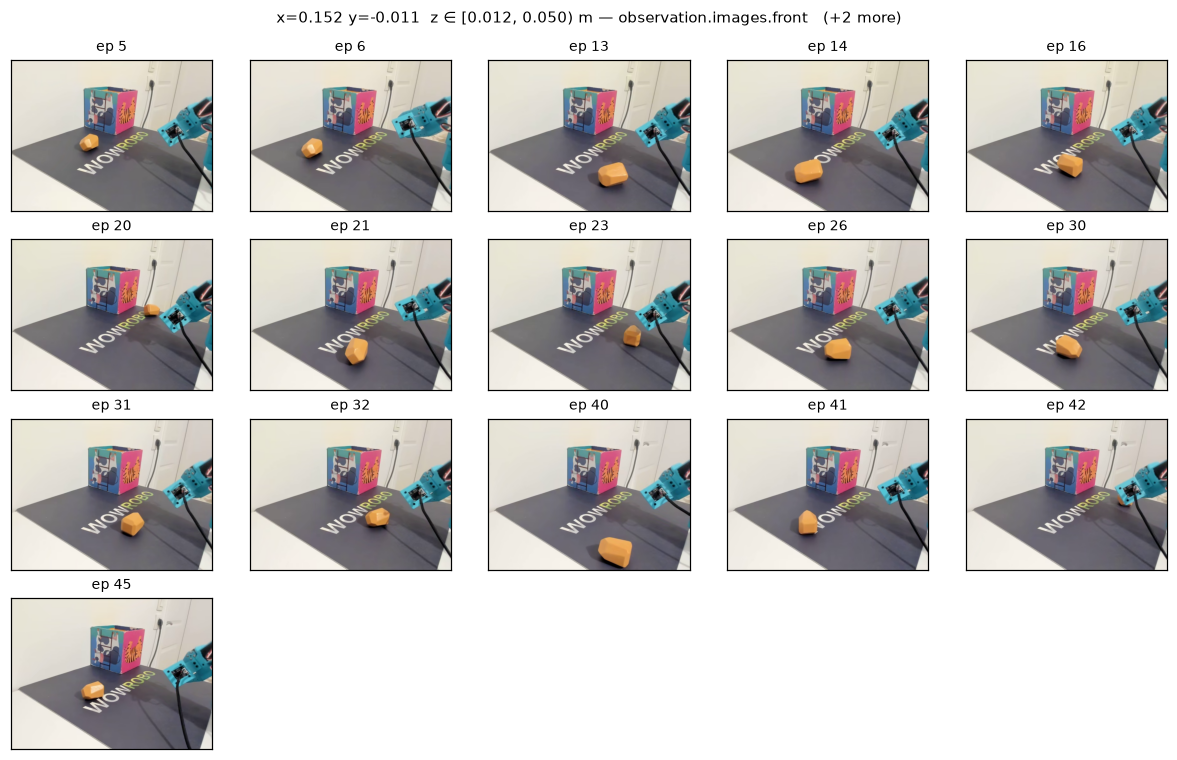
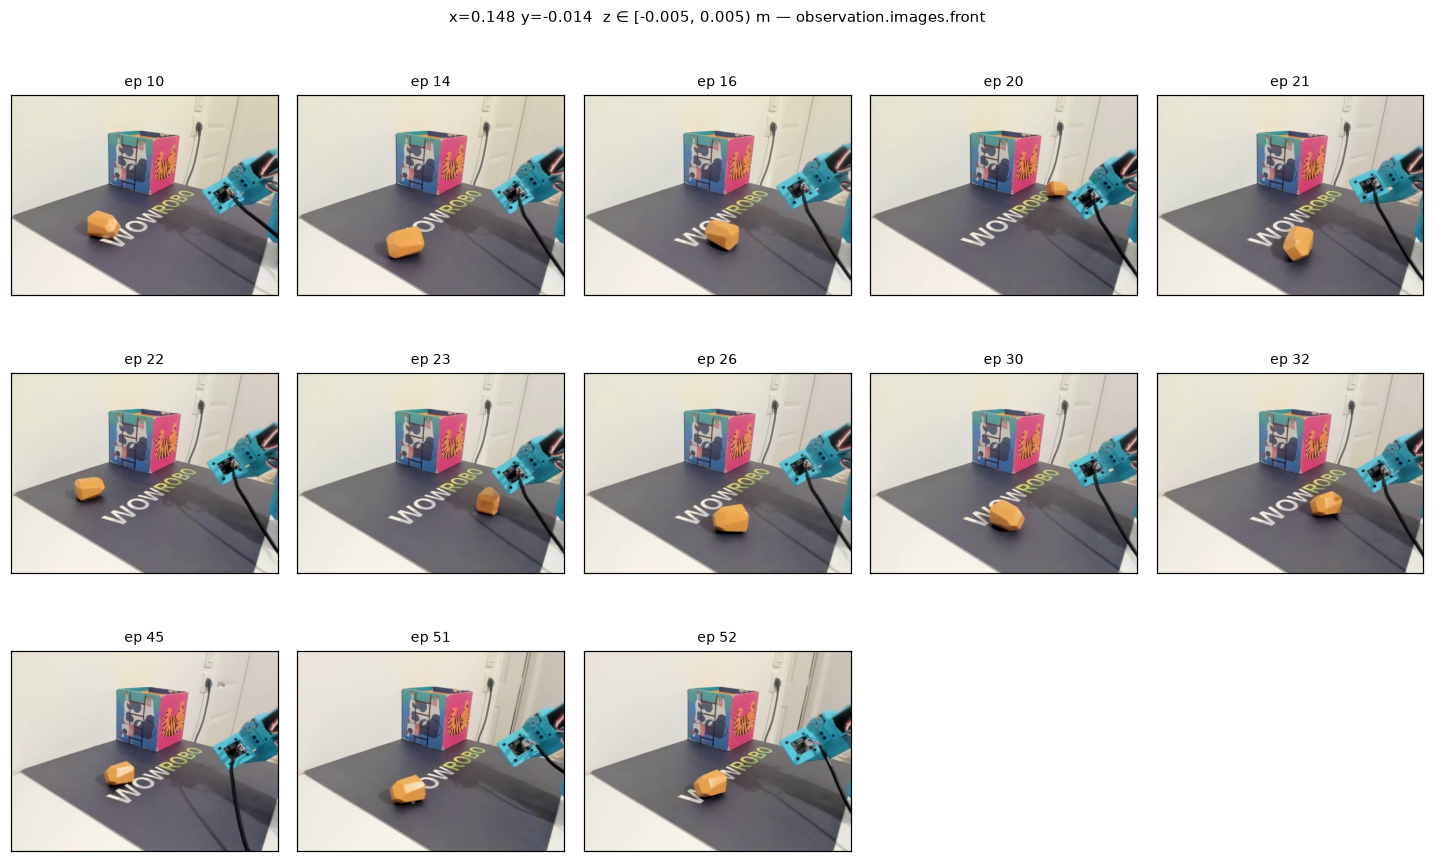
Change the viewer defaults and regenerate the figures
Open on a 10 mm slab at table height (z in [-0.005, 0.005)) at 13.5 mm
cells, colouring by distinct episodes on a log scale with the fixed-scale
lock off. Episodes is the more honest default than frame count: a cell the
arm merely dwelt in during one slow episode no longer looks busy.

--log gains --no-log rather than defaulting off.

Figures regenerated at the new defaults, and on a larger canvas -- at the
old size the suptitle collided with the dataset name and the dataset radio
labels overlapped the first panel's y axis.

Claude-Session: https://claude.ai/code/session_017pQ4pw85xt3LLj5RrtjCwh

diff --git a/02-ee-workspace-coverage/ee_coverage.py b/02-ee-workspace-coverage/ee_coverage.py
@@ -888,7 +888,7 @@ def build_arg_parser() -> argparse.ArgumentParser:
     parser.add_argument("--approach-axis", choices=("x", "y", "z"), default="z",
                         help="Which tool axis counts as the approach direction (default: z).")
 
-    parser.add_argument("--bins", type=int, default=64, help="Bins per axis in the top view (default: 64).")
+    parser.add_argument("--bins", type=int, default=32, help="Bins per axis in the top view (default: 32, ~13 mm cells).")
     parser.add_argument("--z-slices", type=int, default=6, help="Number of z slices (default: 6).")
     parser.add_argument("--z-min", type=float, default=None, help="Lowest slice edge (default: 1st percentile).")
     parser.add_argument("--z-max", type=float, default=None, help="Highest slice edge (default: 99th percentile).")
@@ -902,15 +902,17 @@ def build_arg_parser() -> argparse.ArgumentParser:
     parser.add_argument("--diff", default=None, help="'B:A' -- show coverage in B that is absent from A.")
     parser.add_argument("--no-include-base", dest="include_base", action="store_false",
                         help="Crop to the reached workspace instead of always showing the robot base.")
-    parser.add_argument("--z-bounds", default=None,
-                        help="Initial slab for the viewer, e.g. '0.05,0.09' (default: the first slice).")
+    parser.add_argument("--z-bounds", default="-0.005,0.005",
+                        help="Initial slab for the viewer, e.g. '0.05,0.09' "
+                             "(default: -0.005,0.005 -- a 10 mm band about table height).")
     parser.add_argument("--rest-pose", choices=("home", "zero", "none"), default="home",
                         help="Arm pose drawn for reference: the median episode-start pose, the URDF "
                              "zero config, or nothing (default: home).")
 
-    parser.add_argument("--panel-color", choices=CHANNELS, default="count",
-                        help="What the colour map means (default: count).")
-    parser.add_argument("--log", action="store_true", help="Log colour scale (count/dwell/episodes).")
+    parser.add_argument("--panel-color", choices=CHANNELS, default="episodes",
+                        help="What the colour map means (default: episodes).")
+    parser.add_argument("--log", action=argparse.BooleanOptionalAction, default=True,
+                        help="Log colour scale for count/dwell/episodes (default: on).")
     parser.add_argument("--cmap", default="viridis", help="Matplotlib colormap name.")
     parser.add_argument("--quiver", action="store_true",
                         help="Overlay mean approach direction as arrows on the top view.")

diff --git a/02-ee-workspace-coverage/coverage_viewer.py b/02-ee-workspace-coverage/coverage_viewer.py
@@ -120,7 +120,7 @@ class CoverageViewer:
         self.channel = channel
         self.log = log
         self.show_mask = model.reach_volume is not None
-        self.fixed_scale = True
+        self.fixed_scale = False
         self.cmap = make_cmap(cmap)
         self.blit = blit
         self.show_frames = show_frames

diff --git a/02-ee-workspace-coverage/README.md b/02-ee-workspace-coverage/README.md
@@ -22,21 +22,24 @@ binned in Cartesian space, with a slider to walk up through the workspace height
 
 ![the interactive viewer](assets/viewer.png)
 
-The main panel is a top-down x–y map of one horizontal slab of the workspace — here
-`z ∈ [0.012, 0.050)` m, a 38 mm slice just above the table. The robot is drawn at the
-origin with a pale arrow along the direction it faces, so it is always obvious which side
-of the arm the data is on.
+The main panel is a top-down x–y map of one horizontal slab of the workspace — by default
+`z ∈ [-0.005, 0.005)` m, a 10 mm band straddling table height, in 13.5 mm cells. The robot
+is drawn at the origin with a pale arrow along the direction it faces, so it is always
+obvious which side of the arm the data is on.
 
 Three states are distinguished, which is the point of the whole exercise:
 
 - **grey** — the arm physically cannot reach this cell at this height
 - **white** — reachable, but this dataset never went there
-- **colour** — visited, shaded by how many frames
+- **colour** — visited, shaded by how many *distinct episodes* went through it
 
 Without the grey, a coverage percentage would be meaningless: you would be measuring
-against a bounding box rather than against what the arm can actually do. Here 11,473 frames
-land in this slab and cover **15.6% of the reachable area** — and across all six slices of
-the workspace the figure peaks at 17.2%.
+against a bounding box rather than against what the arm can actually do. Here 3,442 frames
+land in this thin band and cover **10.4% of the reachable area**; taking the whole workspace
+in six thicker slices, the figure peaks at 27%.
+
+Colouring by episodes rather than frame count is the more honest default — a cell the arm
+merely dwelt in for one slow episode looks busy by frame count, but stays dark here.
 
 The shape is as informative as the number. Almost everything sits on the robot's left
 (+y) in a blob around y ≈ 0.10–0.20, plus a cluster near the base where the arm parks
@@ -50,7 +53,7 @@ each of their opening camera frames.
 
 ![the episodes behind one cell](assets/popup.png)
 
-That is what turns a heatmap into an explanation. Eighteen episodes pass through this one
+That is what turns a heatmap into an explanation. Thirteen episodes pass through this one
 cell just in front of the base — and the cube sits somewhere different in every frame, so
 the cell is where the arm parks between episodes, not anything the task put there. Cells
 further out tell the opposite story: the same cube position in frame after frame, because
@@ -68,7 +71,7 @@ panel is the diff — `B \ A`, the cells B visited that A never did — recomput
 either slider.
 
 Against the 146-episode `object-dropping-cube-grabbing-in-the-wild`, the smaller set's
-15.5% becomes 24.1%, and the diff isolates exactly what is new: **3,631 frames in 330 cells**.
+10.6% becomes 17.8%, and the diff isolates exactly what is new: **1,400 frames in 65 cells**.
 Reading where they fall matters more than the count — they are not a rim around the
 existing blob, they are scattered through the middle *and* down into the y < 0 half that
 `consistent-grabbing-merged` barely touched. Neither of the first two panels tells you that
@@ -87,22 +90,23 @@ L=../../lerobot   # or wherever your lerobot checkout is
 
 # One dataset.
 uv run --project $L python ee_coverage.py \
-    ssabats/object-dropping-cube-consistent-grabbing-merged \
-    --interactive --z-bounds 0.012,0.050 --bins 64 --log
+    ssabats/object-dropping-cube-consistent-grabbing-merged --interactive
 
 # Two datasets: adds per-dataset panels and a "B \ A" entry showing what B added.
 uv run --project $L python ee_coverage.py \
     ssabats/object-dropping-cube-consistent-grabbing-merged \
     ssabats/object-dropping-cube-grabbing-in-the-wild \
-    --interactive --z-bounds 0.012,0.050 --bins 64 --log
+    --interactive
 
 # Static figures + summary.txt instead of a window.
 uv run --project $L python ee_coverage.py \
     ssabats/object-dropping-cube-consistent-grabbing-merged \
-    --z-slices 6 --bins 64 --panel-color count --log --out-dir assets/
+    --z-slices 6 --out-dir assets/
 ```
 
-`--panel-color` also takes `dwell`, `episodes`, `tilt`, `tilt_spread`, `roll_spread` and
+The defaults are a 10 mm slab at table height, 13.5 mm cells, and a log colour scale over
+distinct episodes; `--z-bounds`, `--bins`, `--panel-color` and `--no-log` override them.
+`--panel-color` also takes `count`, `dwell`, `tilt`, `tilt_spread`, `roll_spread` and
 `gripper`; `--source action` bins the commanded pose rather than the measured one; `--rerun`
 opens a 3D aggregate view instead. `python so101_fk.py --self-test` checks the kinematics
 before you trust any of it.
